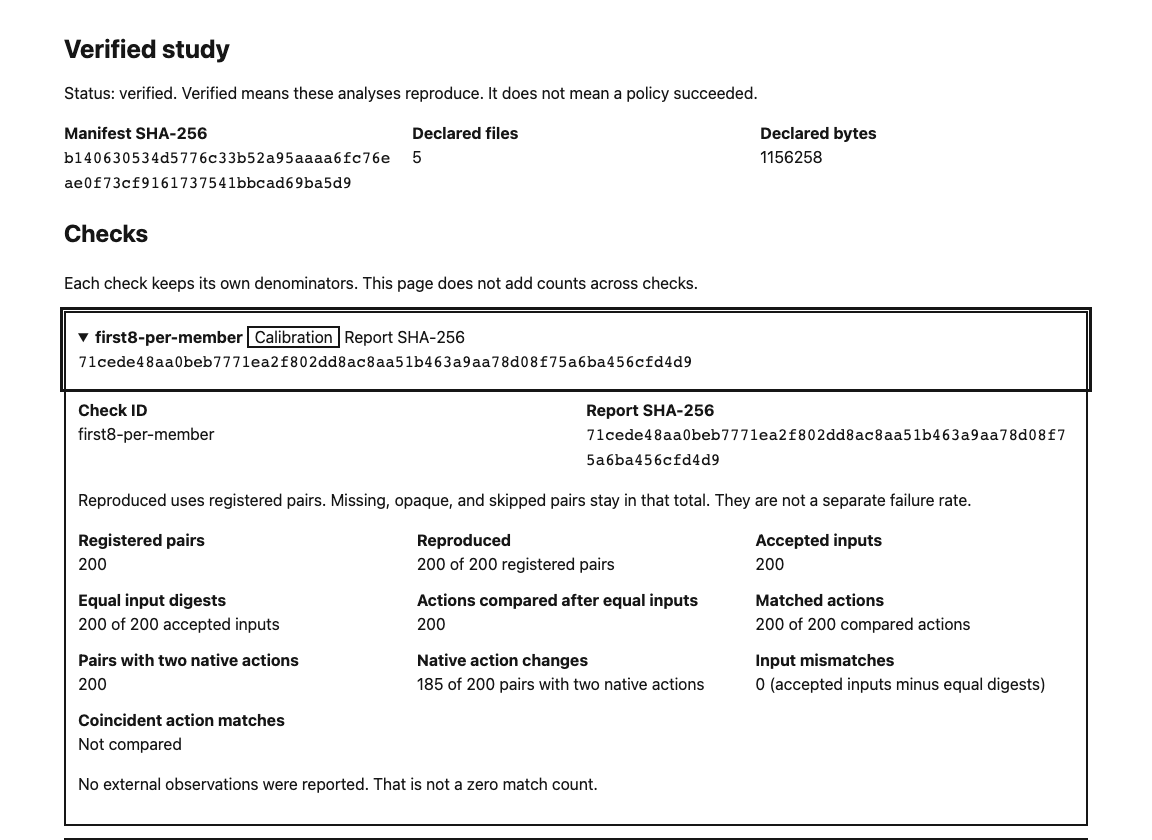
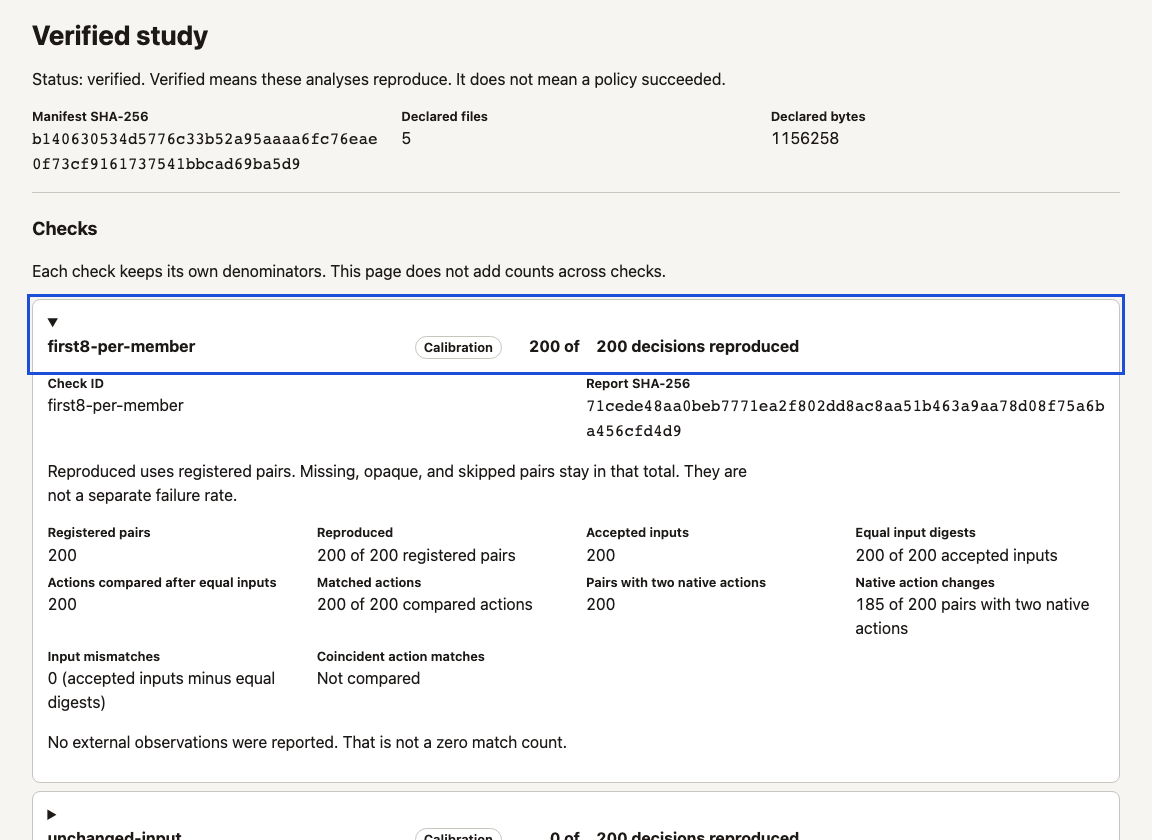
Show each measured result in the collapsed report and retain full checksums inside

diff --git a/src/seatlab/study_html.py b/src/seatlab/study_html.py
@@ -69,17 +69,34 @@ _TEAM = frozenset(
     }
 )
 _CSS = (
-    ":root{color-scheme:light dark}"
-    "body{margin:0;background:#fff;color:#161616;font:1rem/1.5 system-ui,sans-serif}"
-    "main{max-width:64rem;margin:auto;padding:1rem}h1{font-size:1.6rem;line-height:1.2}"
-    ":focus-visible{outline:3px solid currentColor;outline-offset:3px}"
-    "dl{display:grid;gap:.75rem 1.25rem;margin:.75rem 0;"
-    "grid-template-columns:repeat(auto-fit,minmax(min(100%,16rem),1fr))}"
-    "dt{font-weight:700}dd,summary,code{margin:0;overflow-wrap:anywhere}"
-    "details{border:2px solid currentColor;margin:.75rem 0}"
-    "summary{cursor:pointer;padding:.75rem}.body{padding:0 .75rem .75rem}"
-    ".badge{border:2px solid currentColor;padding:0 .35rem}"
-    "@media (prefers-color-scheme:dark){body{background:#101010;color:#f4f4f4}}"
+    ":root{color-scheme:light dark;--bg:#f6f5f2;--card:#fff;--ink:#1c1917;"
+    "--line:#c8c4be;--focus:#1d4ed8}"
+    "body{margin:0;background:var(--bg);color:var(--ink);font:1rem/1.5 system-ui,sans-serif}"
+    "main{max-width:68rem;margin:auto;padding:1.25rem}"
+    "h1{margin:0 0 .35rem;font-size:1.7rem;line-height:1.15}"
+    "h2{margin:1.35rem 0 .35rem;font-size:1.15rem}p{max-width:44rem}"
+    ".mast{padding-bottom:1rem;margin-bottom:.25rem;border-bottom:1px solid var(--line)}"
+    ":focus-visible{outline:3px solid var(--focus);outline-offset:3px}"
+    "dl{display:grid;gap:.4rem 1.25rem;margin:.3rem 0 0;"
+    "grid-template-columns:repeat(auto-fit,minmax(min(100%,15rem),1fr))}"
+    "dt{font-size:.8rem;font-weight:650}dd,code{margin:0;overflow-wrap:anywhere}"
+    "dd{font-variant-numeric:tabular-nums}"
+    "details{background:var(--card);border:1px solid var(--line);border-radius:.5rem;"
+    "margin:.5rem 0}"
+    "summary{cursor:pointer;padding:.65rem .9rem}"
+    ".row{display:grid;gap:.3rem .9rem;align-items:baseline;"
+    "grid-template-columns:minmax(7rem,1.2fr) auto minmax(14rem,2fr)}"
+    ".id,.result{font-weight:700}.id{overflow-wrap:anywhere}"
+    ".kind{border:1px solid var(--line);border-radius:999px;padding:.05rem .5rem;"
+    "font-size:.8rem;font-weight:650;white-space:nowrap}"
+    ".result{font-variant-numeric:tabular-nums}"
+    ".num{display:inline-block;min-width:4ch;text-align:right}"
+    ".body{padding:0 .9rem .75rem}"
+    "@media (max-width:42rem){.row{grid-template-columns:1fr}.kind{justify-self:start}}"
+    "@media (prefers-color-scheme:dark){:root{--bg:#121211;--card:#1c1b19;"
+    "--ink:#f5f5f4;--line:#57534e;--focus:#93c5fd}}"
+    "@media (forced-colors:active){details,.kind{border-color:CanvasText}"
+    ":focus-visible{outline-color:Highlight}}"
 )
 
 
@@ -132,6 +149,14 @@ def _cell(term: str, detail: str) -> str:
 def _words(token: str) -> str:
     text = token.replace("_", " ").replace("-", " ")
     return escape(text[:1].upper() + text[1:], quote=True)
+
+
+def _pair_scan(count: int, total: int, tail: str) -> str:
+    if count > total:
+        raise ValueError("count exceeds its denominator")
+    if total == 0:
+        return "No registered pairs"
+    return f'<span class="num">{count}</span> of <span class="num">{total}</span> {tail}'
 
 
 def _code(value: str) -> str:
@@ -213,7 +238,7 @@ def _alignment(counts: dict[str, int]) -> str:
     return f"<dl>{rows}{_cell('Matched prefix turns', turns)}</dl>"
 
 
-def _team(item: dict[str, object]) -> str:
+def _team(item: dict[str, object]) -> tuple[str, str]:
     if "status" not in item or "matched_steps" not in item or "boundary_step" not in item:
         raise ValueError("team-alignment check is missing a required field")
     status, matched, boundary = item["status"], item["matched_steps"], item["boundary_step"]
@@ -227,9 +252,15 @@ def _team(item: dict[str, object]) -> str:
         step = str(boundary)
     else:
         raise ValueError("boundary_step must be a positive integer or null")
+    if status == "matched_open":
+        scan = f'<span class="num">{matched}</span> matching steps, open prefix'
+    elif boundary is None:
+        scan = f'<span class="num">{matched}</span> matching steps'
+    else:
+        scan = f'Step <span class="num">{boundary}</span>: {_words(str(status))}'
     prefix = f"{matched}. No step total is in this summary, so this is not a rate."
     rows = _cell("Status", _words(str(status))) + _cell("Matched prefix steps", prefix)
-    return f"<dl>{rows}{_cell('Boundary step', step)}</dl>"
+    return f"<dl>{rows}{_cell('Boundary step', step)}</dl>", scan
 
 
 def _check(item: object, seen: set[str]) -> str:
@@ -243,7 +274,7 @@ def _check(item: object, seen: set[str]) -> str:
         raise ValueError("check kind is not supported")
     digest = _sha(check.get("report_sha256"), "report digest")
     if kind == "team-alignment":
-        body = _team(check)
+        body, scan = _team(check)
     else:
         keys = _CAL if kind == "calibration" else ("pairs", "matched_prefix", *_ALIGN)
         counts = _nums(check.get("counts"), keys, "counts")
@@ -254,14 +285,18 @@ def _check(item: object, seen: set[str]) -> str:
                 else None
             )
             body = _calibration(counts, external)
+            scan = _pair_scan(counts["reproduced"], counts["pairs"], "decisions reproduced")
         else:
             body = _alignment(counts)
+            scan = _pair_scan(counts["matched"], counts["pairs"], "histories matched")
     safe_id = escape(check_id, quote=True)
     identity = _cell("Check ID", safe_id) + _cell("Report SHA-256", _code(digest))
+    kind_label = _words(str(kind))
     return (
-        f'<details id="check-{safe_id}">\n<summary><strong>{safe_id}</strong> '
-        f'<span class="badge">{_words(str(kind))}</span> '
-        f"Report SHA-256 {_code(digest)}</summary>\n"
+        f'<details id="check-{safe_id}">\n<summary>'
+        f'<span class="row"><span class="id">{safe_id}</span>'
+        f'<span class="kind">{kind_label}</span>'
+        f'<span class="result">{scan}</span></span></summary>\n'
         f'<div class="body"><dl>{identity}</dl>{body}</div></details>'
     )
 
@@ -293,10 +328,11 @@ def _render(document: dict[str, object]) -> str:
         f'<meta http-equiv="Content-Security-Policy" content="{policy}">\n'
         '<meta name="viewport" content="width=device-width, initial-scale=1">\n'
         "<title>Verified study</title>\n"
-        f"<style>{_CSS}</style>\n</head>\n<body>\n<main>\n<h1>Verified study</h1>\n"
+        f"<style>{_CSS}</style>\n</head>\n<body>\n<main>\n"
+        '<header class="mast">\n<h1>Verified study</h1>\n'
         "<p>Status: verified. Verified means these analyses reproduce. "
         "It does not mean a policy succeeded.</p>\n"
-        f'<dl>{header}</dl>\n<section aria-labelledby="checks-heading">\n'
+        f'<dl>{header}</dl>\n</header>\n<section aria-labelledby="checks-heading">\n'
         '<h2 id="checks-heading">Checks</h2>\n'
         "<p>Each check keeps its own denominators. "
         "This page does not add counts across checks.</p>\n"

diff --git a/tests/test_study_html.py b/tests/test_study_html.py
@@ -146,10 +146,10 @@ class StudyHtmlCliTests(unittest.TestCase):
     def _seal_contrast_study(self) -> tuple[Path, dict[str, object]]:
         bundle = self.root / "bundle"
         bundle.mkdir()
-        measured_view = {"reports": {"left": [1, 2], "right": [1, 2]}}
+        measured_view: dict[str, object] = {"reports": {"left": [1, 2], "right": [1, 2]}}
         measured_source = _decision("measured-case", "source", 2, measured_view, _ANSWERS)
         measured_target = _decision("measured-case", "target", 1, measured_view, _ANSWERS)
-        secret_view = {
+        secret_view: dict[str, object] = {
             "reports": {"left": [1], "right": [1]},
             "environmental_secret": _VIEW_SECRET,
         }
